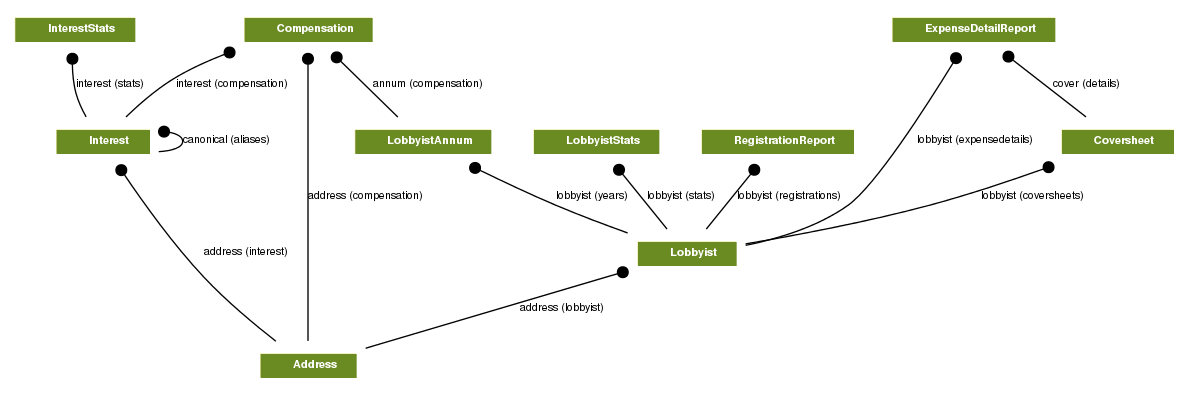
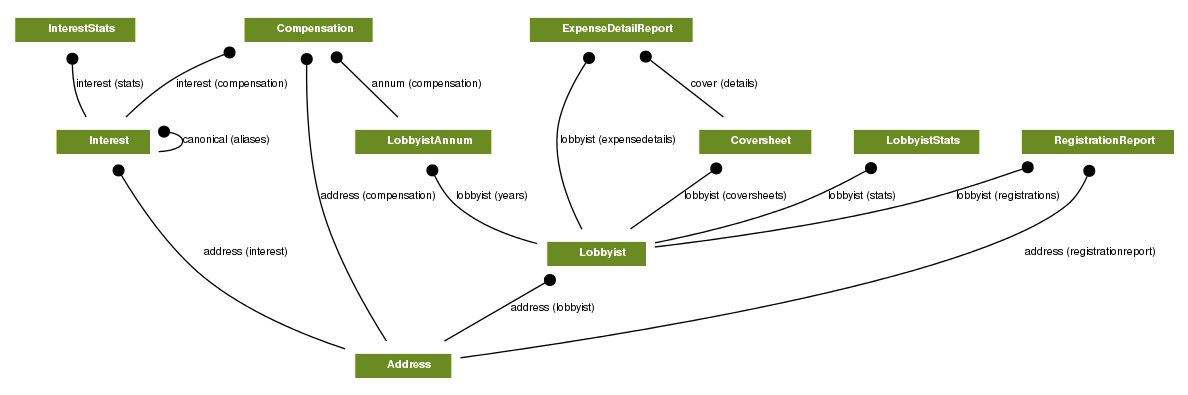
refactor to store denormalized address on registration model

diff --git a/tx_lobbying/scrapers/registration.py b/tx_lobbying/scrapers/registration.py
@@ -56,7 +56,7 @@ def scrape(path, logger=logger):
             report_date = convert_date_format_YMD(row['RPT_DATE'])
             year = row['YEAR_APPL']
 
-            address, created = Address.objects.get_or_create(
+            reg_address, created = Address.objects.get_or_create(
                 address1=row['ADDRESS1'],
                 address2=row['ADDRESS2'],
                 city=row['CITY'],
@@ -71,7 +71,7 @@ def scrape(path, logger=logger):
                 name=row['LOBBYNAME'],
                 sort_name=row['SORTNAME'],  # not LOB_SORT like in coversheets
                 updated_at=report_date,
-                address=address,
+                address=reg_address,
             )
             lobbyist, created = Lobbyist.objects.update_or_create(
                 filer_id=row['FILER_ID'],
@@ -81,9 +81,9 @@ def scrape(path, logger=logger):
 
             if row['CONCERNAME']:
                 # interest/concern/client
-                interest, address, created = update_or_create_interest(row)
+                interest, interest_address, created = update_or_create_interest(row)
             else:
-                address = None
+                interest_address = None
                 interest = None
 
             # registration report
@@ -91,6 +91,7 @@ def scrape(path, logger=logger):
                 raw=json.dumps(row),
                 report_date=report_date,
                 year=year,
+                address=reg_address,
             )
             report, created = RegistrationReport.objects.update_or_create(
                 lobbyist=lobbyist,
@@ -109,7 +110,7 @@ def scrape(path, logger=logger):
                     amount_high=int(round(float(row['NHIGH'] or "0"))),  # I hate myself
                     amount_low=int(round(float(row['NLOW'] or "0"))),
                     compensation_type=row['TYPECOPM'],
-                    address=address,
+                    address=interest_address,
                     raw=json.dumps(row),
                     updated_at=report_date,
                 )

diff --git a/tx_lobbying/models.py b/tx_lobbying/models.py
@@ -185,16 +185,7 @@ class Lobbyist(models.Model):
         history = []
         Item = namedtuple('Item', ['address', 'registration'])
         for reg in self.registrations.all().order_by('year'):
-            row = json.loads(reg.raw)
-            # allow this to blow up if Address.DoesNotExist
-            address = Address.objects.get(
-                address1=row['ADDRESS1'],
-                address2=row['ADDRESS2'],
-                city=row['CITY'],
-                state=row['STATE'],
-                zipcode=row['ZIPCODE'],
-            )
-            print address
+            address = reg.address
             if not history or address != history[-1].address:
                 # only append address if it changed
                 history.append(Item(address, reg))
@@ -296,6 +287,7 @@ class RegistrationReport(models.Model):
     report_id = models.IntegerField(unique=True)
     report_date = models.DateField()
     year = models.IntegerField()
+    address = models.ForeignKey(Address)
     raw = models.TextField()
     # TODO
     # interests = models.ManyToMany(Interest)
